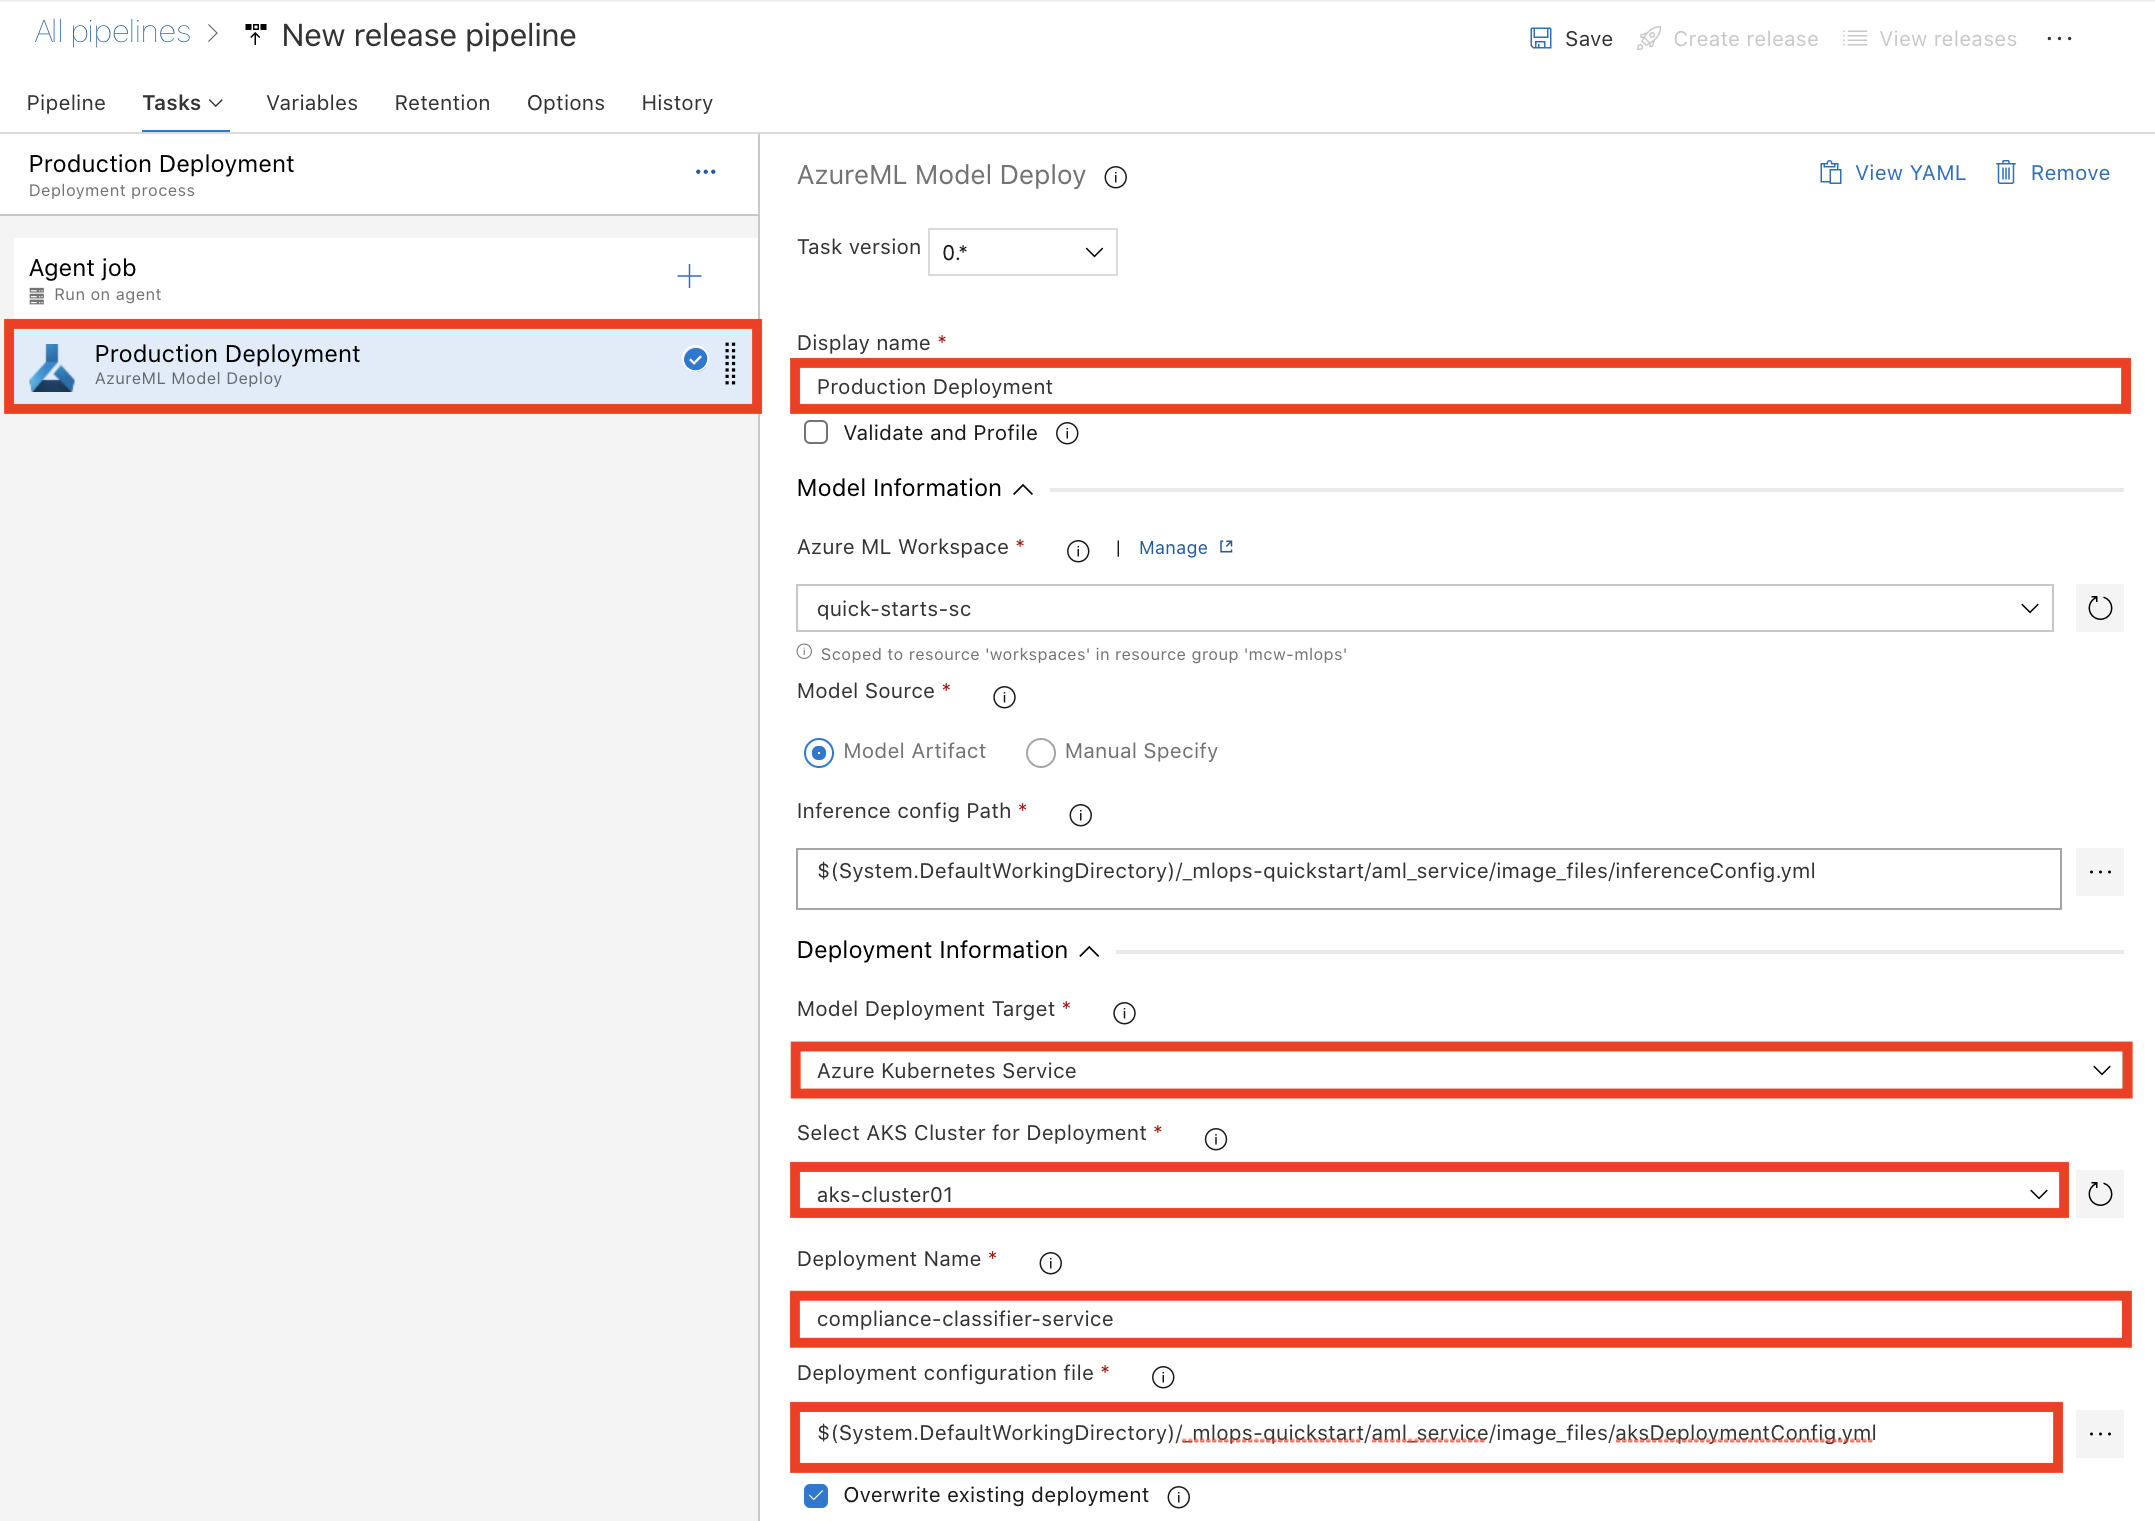
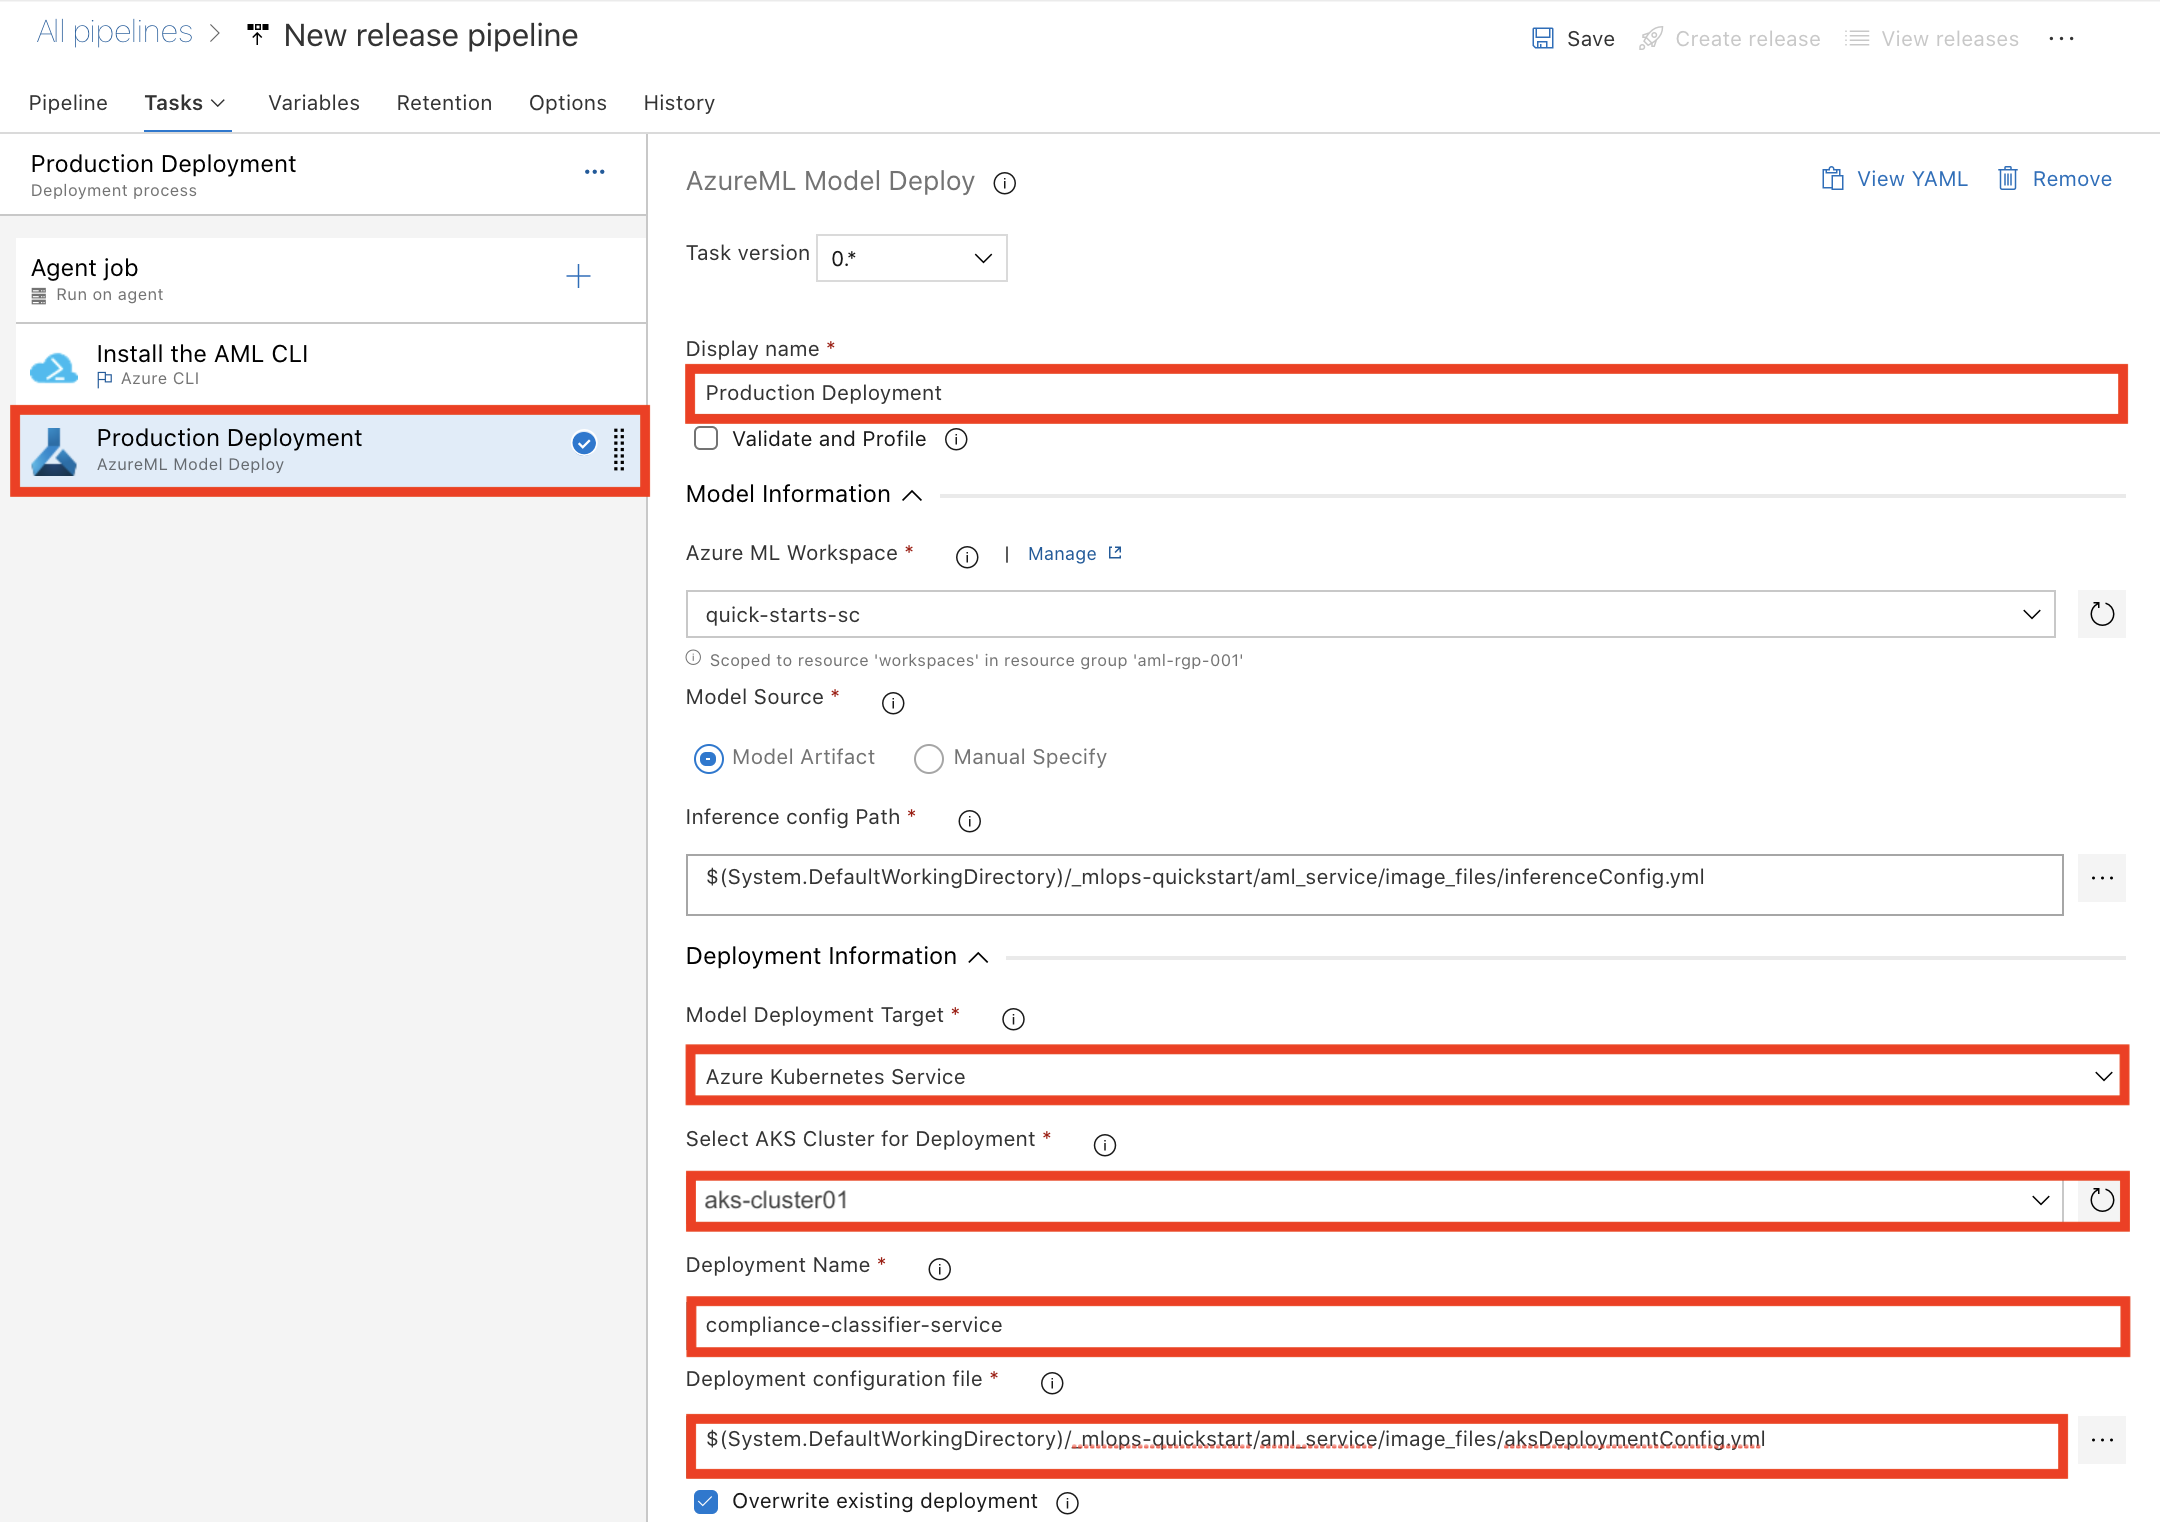
add install Azure ML CLI extension task

diff --git a/Hands-on lab/HOL step-by-step - MLOps.md b/Hands-on lab/HOL step-by-step - MLOps.md
@@ -52,11 +52,12 @@ Microsoft and the trademarks listed at <https://www.microsoft.com/en-us/legal/in
     - [Task 1: Create an Empty Job for the Release Pipeline](#Task-1-Create-an-Empty-Job-for-the-Release-Pipeline)
     - [Task 2: Add Build Artifacts for the Release Pipeline](#Task-2-Add-Build-Artifacts-for-the-Release-Pipeline)
     - [Task 3: Setup Agent Pool for Test Deployment stage](#Task-3-Setup-Agent-Pool-for-Test-Deployment-stage)
-    - [Task 4: Add AzureML Model Deploy task to Test Deployment stage](#Task-4-Add-AzureML-Model-Deploy-task-to-Test-Deployment-stage)
-    - [Task 5: Clone the Test Deployment stage](#Task-5-Clone-the-Test-Deployment-stage)
-    - [Task 6: Configure the Production Deployment stage](#task-6-Configure-the-Production-Deployment-stage)
-    - [Task 7: Enable Pre-deployment Approvals](#Task-7-Enable-Pre-deployment-Approvals)
-    - [Task 8: Save the Release Pipeline](#Task-8-Save-the-Release-Pipeline)
+    - [Task 4: Add Install the AML CLI task to Test Deployment stage](#Task-4-Add-Install-the-AML-CLI-task-to-Test-Deployment-stage)
+    - [Task 5: Add AzureML Model Deploy task to Test Deployment stage](#Task-5-Add-AzureML-Model-Deploy-task-to-Test-Deployment-stage)
+    - [Task 6: Clone the Test Deployment stage](#Task-6-Clone-the-Test-Deployment-stage)
+    - [Task 7: Configure the Production Deployment stage](#task-7-Configure-the-Production-Deployment-stage)
+    - [Task 8: Enable Pre-deployment Approvals](#Task-8-Enable-Pre-deployment-Approvals)
+    - [Task 9: Save the Release Pipeline](#Task-9-Save-the-Release-Pipeline)
   - [Exercise 6: Create Release for the Production Release Pipeline](#Exercise-6-Create-Release-for-the-Production-Release-Pipeline)
     - [Task 1: Create new release](#task-1-Create-new-release)
     - [Task 2: Monitor the Test Deployment stage](#task-2-Monitor-the-Test-Deployment-stage)
@@ -449,7 +450,23 @@ Duration: 20 minutes
 
     ![On the New release pipeline screen, Tasks tab, the Agent job is selected. The Agent job details form is populated with the aforementioned values.](media/devops-release-pipeline-10b.png 'Agent Job Setup')
 
-### Task 4: Add AzureML Model Deploy task to Test Deployment stage
+### Task 4: Add Install the AML CLI task to Test Deployment stage
+
+1. Select **Add a task to Agent job** (the **+** button), search for `Azure CLI`, and select **Add**.
+
+    ![On the New release pipeline screen, the Tasks tab is selected. Agent job is displayed in the list of tasks. The + button is selected in the Agent job tile. The Add tasks pane is displayed with Azure CLI entered in the search box, and the Azure CLI search result is highlighted with its Add button selected.](media/devops-release-pipeline-77a.png 'Add Azure CLI Task')
+
+2. Provide the following information:
+
+    - **Task version:** `1.*`
+    - **Display name:** `Install the AML CLI`
+    - **Azure subscription:** `quick-starts-sc`
+    - **Script Location:** `Inline script`
+    - **Inline Script:** `az extension add -n azure-cli-ml`
+
+    ![The Azure CLI Task form is displayed populated with the preceding values.](media/devops-release-pipeline-77b.png 'Azure CLI Task Dialog')
+
+### Task 5: Add AzureML Model Deploy task to Test Deployment stage
 
 1. Select **Add a task to Agent job** (the **+** button), search for `AzureML Model Deploy`, and select **Add**.
 
@@ -468,13 +485,13 @@ Duration: 20 minutes
 
     ![The AzureML Model Deploy Task form is displayed populated with the preceding values.](media/devops-release-pipeline-12b.png 'AzureML Model Deploy Task Dialog')
 
-### Task 5: Clone the Test Deployment stage
+### Task 6: Clone the Test Deployment stage
 
 1. Select **Pipeline, Clone**.
 
     ![On the New release pipeline screen, the Pipeline tab is selected and then the Clone button is selected on the Test Deployment stage.](media/devops-release-pipeline-13b.png 'Clone Test Deployment Stage')
 
-### Task 6: Configure the Production Deployment stage
+### Task 7: Configure the Production Deployment stage
 
 1. Open **View stage tasks** link.
 
@@ -494,7 +511,7 @@ Duration: 20 minutes
 
     ![The AzureML Model Deploy Task form is displayed populated with the preceding values.](media/devops-release-pipeline-13e.png 'AzureML Model Deploy Task Dialog')
 
-### Task 7: Enable Pre-deployment Approvals
+### Task 8: Enable Pre-deployment Approvals
 
 1. Navigate to **Pipeline** tab and select **Pre-deployment conditions** for the **Production Deployment** stage.
 
@@ -504,7 +521,7 @@ Duration: 20 minutes
 
 3. Close the dialog.
 
-### Task 8: Save the Release Pipeline
+### Task 9: Save the Release Pipeline
 
 1. Provide name: `Production Release Pipeline`.
 
